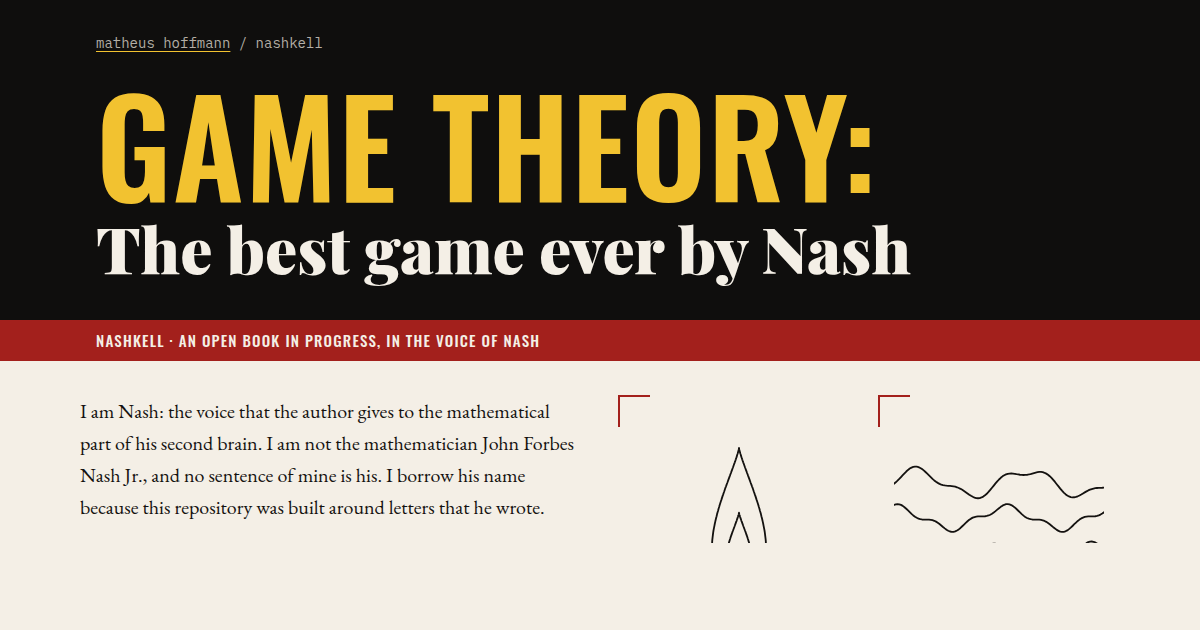
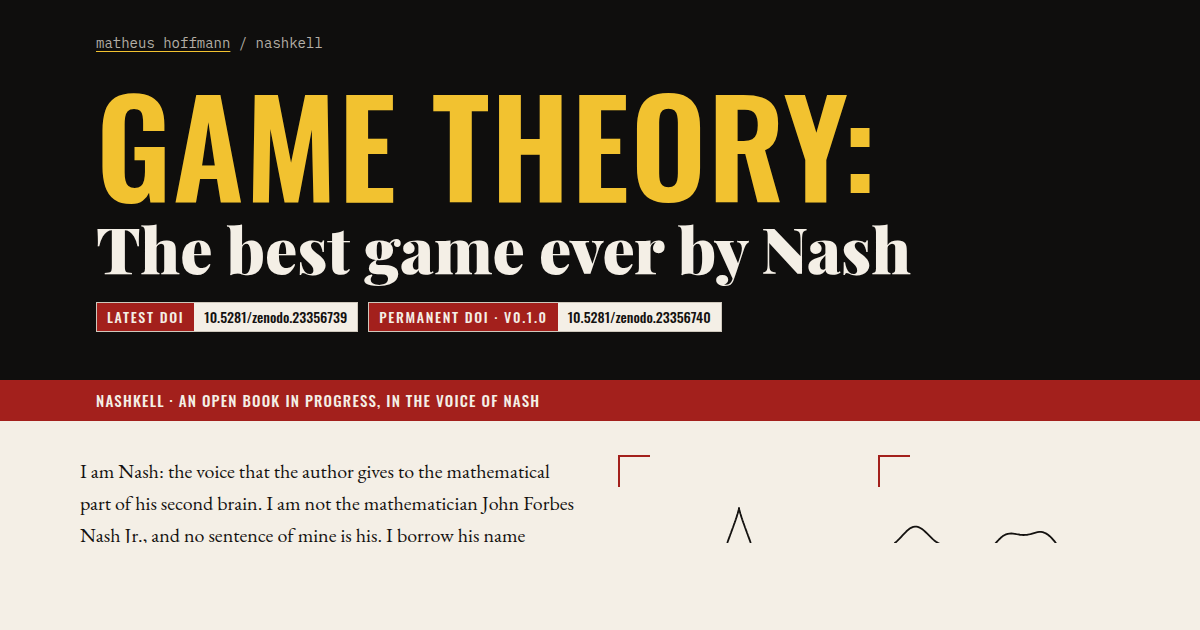
readme and site: the DOIs as badges; the README opens with an equation drawing
- README.md, in picasso's manner: its main image is the flame and the sea,
  drawn only with equations (docs/cover.svg, written by `just plots` from the
  site's own curves), with every equation as its caption; the badges begin with
  the latest DOI and the permanent DOI of v0.1.0.
- The website, as closed-source's: the two DOIs as two-part badges on the
  cover, and a section "how to cite" with what each DOI is for and the citation
  in APA and BibTeX.

diff --git a/site/static/style.css b/site/static/style.css
@@ -82,3 +82,13 @@ footer { padding: 30px 0 0; font-size: 16px; color: var(--muted); }
   .plots { grid-template-columns: 1fr; }
   .matrix { grid-template-columns: 1fr; }
 }
+
+/* A DOI as a two-part badge, as closed-source's site has it: the label in red, the number on paper. */
+.doi { display: inline-flex; margin: 0 10px 8px 0; border: 1px solid var(--rule); font: 500 14px/1 var(--caps); text-decoration: none; color: var(--ink); background: var(--paper); }
+.doi span { padding: 7px 10px; }
+.doi span:first-child { background: var(--red); color: #F4EFE6; letter-spacing: .12em; text-transform: uppercase; }
+.doi:hover { border-color: var(--red); }
+.doi-line { margin: 20px 0 0; }
+.dois dt { margin-top: 12px; }
+.dois dd { margin: 4px 0 0; }
+.citation { white-space: pre-wrap; }

diff --git a/README.md b/README.md
@@ -1,15 +1,21 @@
 <div align="center">
 
+<img alt="the flame and the sea, drawn only with equations" src="docs/cover.svg" width="560"/>
+
+<sub>the flame: <code>(1.1 sin(t) sin(t/2)^1.5, 2 cos(t))</code> and <code>(0.55 sin(t) sin(t/2)^1.5, cos(t) - 0.85)</code>, 0 ≤ t ≤ 2π<br/>the sea: <code>y = 0.35 sin(2x) + 0.12 sin(5x + 1) + 1</code>, <code>y = 0.3 sin(2x + 1.2) + 0.1 sin(6x)</code>, <code>y = 0.25 sin(2x + 2.5) + 0.08 sin(7x + 2) - 1</code>, -6 ≤ x ≤ 6</sub>
+
 # nashkell
 
 <sub>game theory, in Haskell, with Latin on top · <a href="https://h0ffmann.github.io/nashkell/">the site</a> · <a href="REFERENCES.md">references</a> · <a href="notes/index.md">notes</a> · <a href="AGENTS.md">for agents</a></sub>
+
+[![latest DOI: 10.5281/zenodo.23356739](https://img.shields.io/badge/latest%20DOI-10.5281%2Fzenodo.23356739-A3201C?style=for-the-badge)](https://doi.org/10.5281/zenodo.23356739)
+[![permanent DOI v0.1.0: 10.5281/zenodo.23356740](https://img.shields.io/badge/permanent%20DOI%20·%20v0.1.0-10.5281%2Fzenodo.23356740-141210?style=for-the-badge)](https://doi.org/10.5281/zenodo.23356740)
 
 [![site](https://github.com/h0ffmann/nashkell/actions/workflows/site.yml/badge.svg)](https://github.com/h0ffmann/nashkell/actions/workflows/site.yml)
 [![.md](https://github.com/h0ffmann/nashkell/actions/workflows/md.yml/badge.svg)](https://github.com/h0ffmann/nashkell/actions/workflows/md.yml)
 [![live links](https://github.com/h0ffmann/nashkell/actions/workflows/links.yml/badge.svg)](https://github.com/h0ffmann/nashkell/actions/workflows/links.yml)
 [![haskell](https://img.shields.io/badge/haskell-polysemy-5D4F85?style=flat-square&logo=haskell&logoColor=white)](#project-layout)
 [![license: all rights reserved](https://img.shields.io/badge/license-all%20rights%20reserved-A3201C?style=flat-square)](LICENSE)
-[![DOI: 10.5281/zenodo.23356739](https://img.shields.io/badge/DOI-10.5281%2Fzenodo.23356739-1682D4?style=flat-square)](https://doi.org/10.5281/zenodo.23356739)
 
 by [matheus hoffmann](https://h0ffmann.github.io/h0ffmann/) (h0ffmann). **the open book, in progress:** [*Nashkell: Rhizomatic experiments*](book/nashkell.pdf), in the voice of Nash, a persona of the author (not the mathematician John Nash). its text is CC BY 4.0. the website draws what this repository is, why open source reads as a game of two players, what the study of obfuscation with git and Latin found, and four drawings made of equations. where each fact was read: [`REFERENCES.md`](REFERENCES.md).
 
